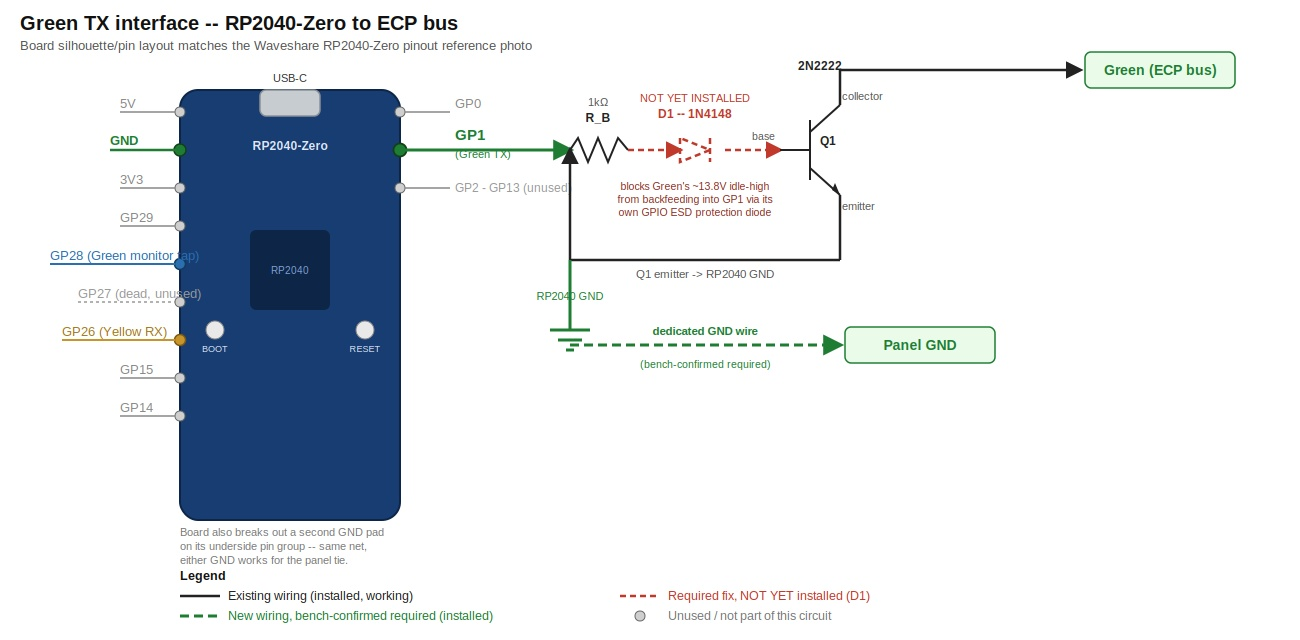
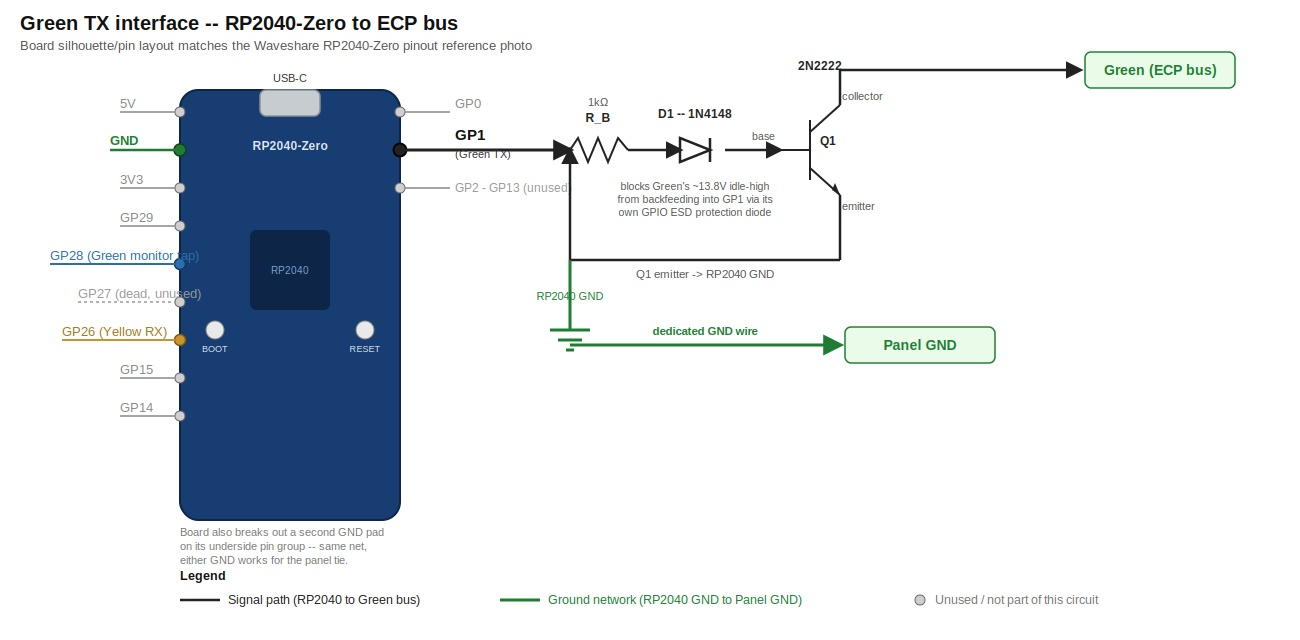
Redraw Green TX schematic as the complete, intended circuit (#73)
Drops the "not yet installed" red/dashed warning styling for D1 and the
"bench-confirmed required" dashed styling for the panel-GND wire, now
that D1 is actually installed in hardware -- the diagram shows the final
target circuit (GP1 -> R_B -> D1 -> Q1 base -> Green, RP2040 GND tied to
Panel GND) as a normal, complete schematic instead of a work-in-progress
with TODOs. Recolors GP1 out of the ground-network green (it's a signal
pin, not ground) to keep the legend's black/green distinction accurate.

Updates HARDWARE_ARCHITECTURE.md's surrounding text to match: D1 is
installed and the backfeed/real-keypad-17-lockup symptoms are confirmed
resolved, but Green still isn't producing a signal at Q1's collector
even with the base scoping clean -- swapping Q1 didn't change that, so
the stage is being rebuilt off breadboard (soldered, point-to-point) to
rule out a breadboard-induced short. Still open.

Claude-Session: https://claude.ai/code/session_01LoZdpHVGNxDdSZK8Eq1p6C

diff --git a/HARDWARE_ARCHITECTURE.md b/HARDWARE_ARCHITECTURE.md
@@ -125,9 +125,9 @@ GP0 (originally earmarked for UART0 alongside GP1) is unused now that the
 Pi interconnect is USB-serial again — see "RP2040-Zero <-> Pi interconnect"
 below. GP1 itself was reassigned to Green TX per the row above.
 
-### Green TX interface schematic (current + required fix)
+### Green TX interface schematic (complete design)
 
-![Green TX interface schematic: RP2040-Zero board silhouette (pin layout matching the Waveshare pinout reference photo) with GP1 driving R_B, D1 (not yet installed), and Q1's base; Q1's collector to Green; Q1's emitter and the RP2040's GND tied to Panel GND via a dedicated wire](docs/hardware/green-tx-schematic.jpg)
+![Green TX interface schematic: RP2040-Zero board silhouette (pin layout matching the Waveshare pinout reference photo) with GP1 driving R_B, D1, and Q1's base; Q1's collector to Green; Q1's emitter and the RP2040's GND tied to Panel GND via a dedicated wire](docs/hardware/green-tx-schematic.jpg)
 
 (Source vector version: `docs/hardware/green-tx-schematic.svg`, same content.)
 
@@ -145,12 +145,15 @@ doesn't show visually:
   RX keeps working anyway (enough margin on that side to tolerate a
   floating reference). See "Still open" item 1's ground-reference update
   below for the full story of how this was found.
-- **D1 is a required fix, not yet installed in hardware.** Without it,
-  the panel bus's idle-high voltage leaks back through Q1's
-  collector-base junction, up R_B, and into GP1's GPIO protection diode
-  -- confirmed by the RP2040's status LED lighting with USB unplugged,
-  powered by leakage current alone. Do not reconnect Green to a live bus
-  with other real devices present until D1 is installed.
+- **D1 exists to block backfeed, not to pass signal.** Without it, the
+  panel bus's idle-high voltage leaks back through Q1's collector-base
+  junction, up R_B, and into GP1's GPIO protection diode -- confirmed by
+  the RP2040's status LED lighting with USB unplugged, powered by
+  leakage current alone. D1 is now installed and that specific symptom
+  (and the real-keypad-17 bus lockup that came with it) is confirmed
+  resolved; see "Still open" item 1's backfeed update below for what's
+  still being chased (Green itself still isn't producing a signal at
+  Q1's collector, under active bench investigation).
 
 ## RP2040-Zero <-> Pi interconnect: USB-serial (reverted from UART)
 
@@ -485,17 +488,28 @@ Vista panel keypad bus (4-wire ECP)
    17) locking up solid while the RP2040's Green wire was connected: a
    floating/backfed base can leave Q1 never fully OFF, holding Green
    pulled down against the shared bus far more persistently than any
-   firmware timing issue would. **Fix (not yet applied in hardware): add
-   a small series diode (e.g. 1N4148) between the 1kΩ base resistor and
-   Q1's base**, oriented to pass drive current from GP1 into the base but
-   block reverse current from the collector (Green) side from ever
-   reaching GP1. Do not reconnect Green to a live bus with other real
-   devices present until this is in place. Separately, the bench-only
-   forced-announce timer (`VISTA_DEBUG_FORCE_ANNOUNCE` in
+   firmware timing issue would. **Fix: a small series diode (D1, 1N4148)
+   between the 1kΩ base resistor and Q1's base**, oriented to pass drive
+   current from GP1 into the base but block reverse current from the
+   collector (Green) side from ever reaching GP1. Separately, the
+   bench-only forced-announce timer (`VISTA_DEBUG_FORCE_ANNOUNCE` in
    `rp2040_bridge.ino`) is now gated off by default for the same
    live-bus-safety reason: it fires unconditionally once a second with no
    regard for the panel's own poll timing, unsafe with any other device
    sharing the bus.
+
+   **Update (D1 installed, backfeed/lockup resolved, new fault under
+   investigation):** D1 is now installed. The backfeed symptom (RP2040
+   status LED lighting with USB unplugged) and the real-keypad-17 bus
+   lockup are both confirmed resolved -- consistent with the theory above,
+   Q1's base is no longer floating/backfed. However, Green still isn't
+   producing a signal: with the base scoping clean (referenced to RP2040
+   GND) and Q1's collector scoping nothing at the same time, the fault is
+   isolated to Q1 or its immediate wiring, not the base-drive path.
+   Swapping Q1 for a fresh 2N2222 made no difference. Currently rebuilding
+   the R_B/D1/Q1 stage off breadboard (soldered, point-to-point) to rule
+   out a breadboard-induced short or bad contact from a crowded board with
+   a lot of rework on it -- still open.
 2. **Battery capacity** — deliberately left undecided, and not needed
    during the development/testing phase — the build will run on isolated
    wall power (via the isolated USB-C/DC-DC charge path already in the
